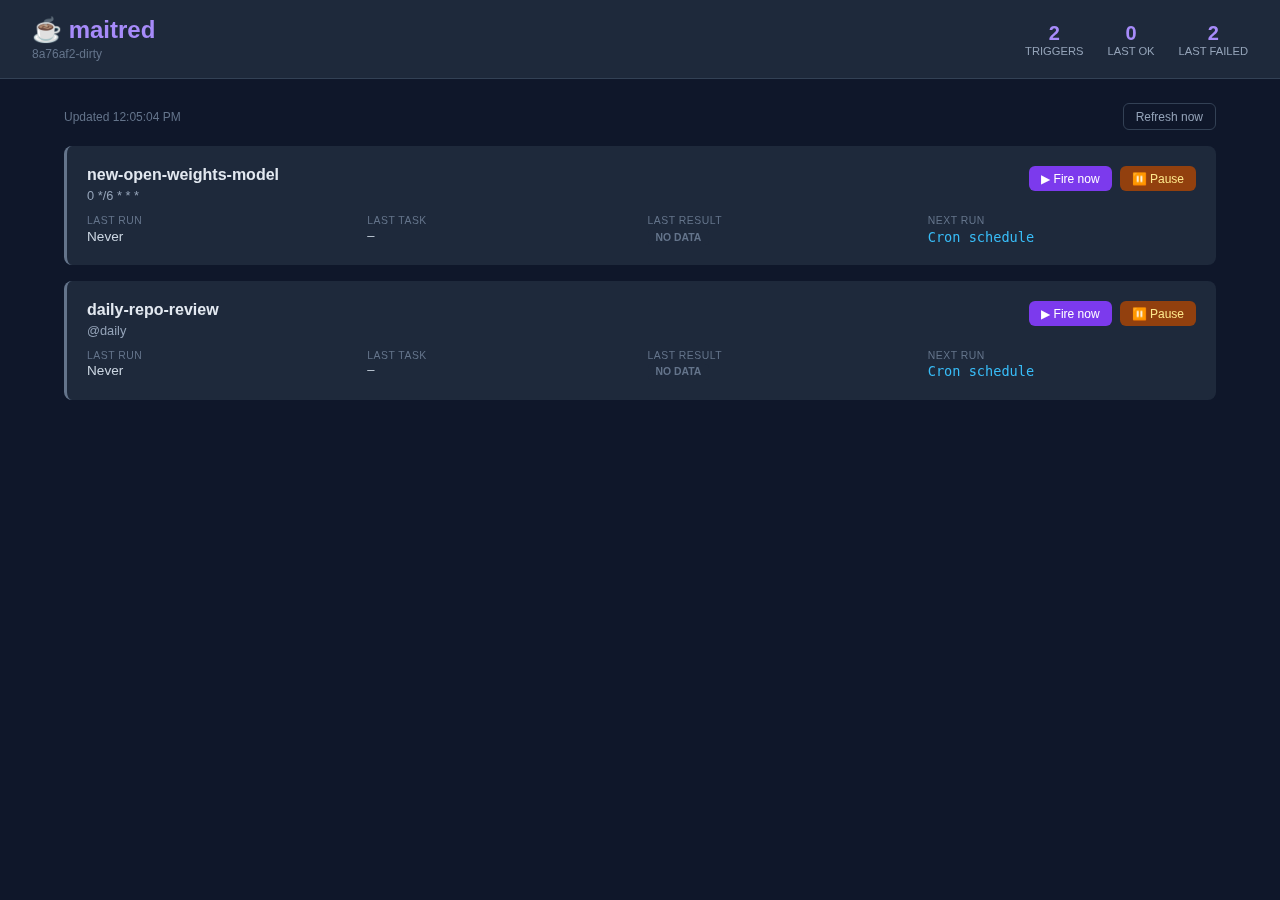
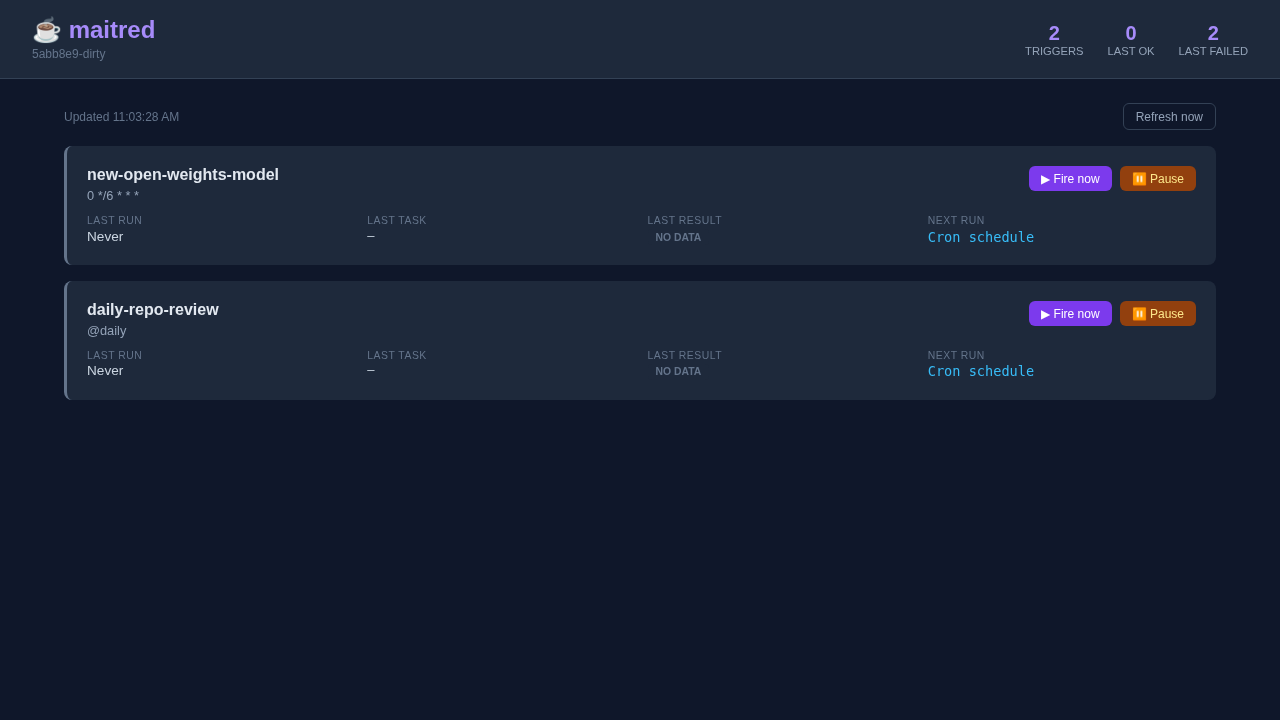
✨ feat(ui): show webhook endpoint config on trigger cards
Display a 'Webhook endpoints' section on each trigger card showing:
- Provider name badge (e.g. forgejo)
- Full endpoint URL path (e.g. /v1/forgejo/pull-request)
- Target trigger ID

Also exposes /api/webhooks through the web dashboard server so the
UI can fetch webhook config alongside trigger data.

Added 8 Playwright tests covering the new UI elements and API endpoint.
Updated screenshot in docs/.

diff --git a/pkg/web/static/index.html b/pkg/web/static/index.html
@@ -60,6 +60,12 @@
         .countdown { color: #38bdf8; font-family: 'SF Mono', 'Fira Code', monospace; }
         .countdown.due { color: #f59e0b; }
         .countdown.paused { color: #64748b; }
+        .webhook-section { margin-top: 0.75rem; padding-top: 0.75rem; border-top: 1px solid #334155; }
+        .webhook-title { font-size: 0.75rem; color: #64748b; text-transform: uppercase; margin-bottom: 0.5rem; }
+        .webhook-row { display: flex; align-items: center; gap: 0.5rem; padding: 0.3rem 0; font-size: 0.8rem; }
+        .webhook-url { color: #94a3b8; font-family: 'SF Mono', 'Fira Code', monospace; font-size: 0.7rem; flex: 1; }
+        .webhook-trigger { color: #64748b; font-size: 0.7rem; }
+        .webhook-badge { display: inline-block; padding: 0.15rem 0.5rem; border-radius: 0.25rem; font-size: 0.65rem; font-weight: 600; text-transform: uppercase; background: #1e1b4b; color: #818cf8; }
     </style>
 </head>
 <body>
@@ -106,6 +112,8 @@
 
                 const defs = await defsRes.json();
                 const history = await historyRes.json();
+                const webhooksRes = await fetch('/api/webhooks').catch(() => ({ ok: false }));
+                const webhooks = webhooksRes.ok ? await webhooksRes.json() : [];
 
                 // Load paused state for each trigger
                 const pausedPromises = defs.map(d =>
@@ -118,7 +126,7 @@
                 const version = versionRes.ok ? await versionRes.text() : 'dev';
 
                 document.getElementById('version').textContent = version;
-                renderTriggers(defs, history);
+                renderTriggers(defs, history, webhooks);
                 updateStats(defs, history);
                 document.getElementById('status-text').textContent = 'Updated ' + new Date().toLocaleTimeString();
             } catch (e) {
@@ -137,7 +145,7 @@
             document.getElementById('failed-count').textContent = (defs.length || 0) - successCount;
         }
 
-        function renderTriggers(defs, history) {
+        function renderTriggers(defs, history, webhooks) {
             const list = document.getElementById('trigger-list');
             if (defs.length === 0) {
                 list.innerHTML = '<div class="empty-state"><h2>No triggers configured</h2><p>Add YAML files to your trigger directory</p></div>';
@@ -159,6 +167,29 @@
                 const lastTaskText = lastRecord ? lastRecord.task_id.substring(0, 20) + '...' : '\u2014';
 
                 const errorText = lastError ? lastRecord.error : '';
+
+                // Build webhook endpoint info for this trigger
+                const triggerWebhooks = [];
+                for (const wh of webhooks) {
+                    for (const ep of wh.endpoints) {
+                        if (ep.trigger_id === def.id) {
+                            triggerWebhooks.push({ provider: wh.provider, endpoint: ep });
+                        }
+                    }
+                }
+
+                const webhookHtml = triggerWebhooks.length > 0 ? `
+                    <div class="webhook-section">
+                        <div class="webhook-title">Webhook endpoints</div>
+                        ${triggerWebhooks.map(wh => `
+                            <div class="webhook-row">
+                                <span class="webhook-badge">${escapeHtml(wh.provider)}</span>
+                                <span class="webhook-url">/v1/${escapeHtml(wh.provider)}/${escapeHtml(wh.endpoint.name)}</span>
+                                <span class="webhook-trigger">→ ${escapeHtml(wh.endpoint.trigger_id)}</span>
+                            </div>
+                        `).join('')}
+                    </div>
+                ` : '';
 
                 return `
                     <div class="trigger-card ${cardClass}">
@@ -207,6 +238,7 @@
                             `).join('')}
                         </div>
                         ` : ''}
+                        ${webhookHtml}
                     </div>
                 `;
             }).join('');